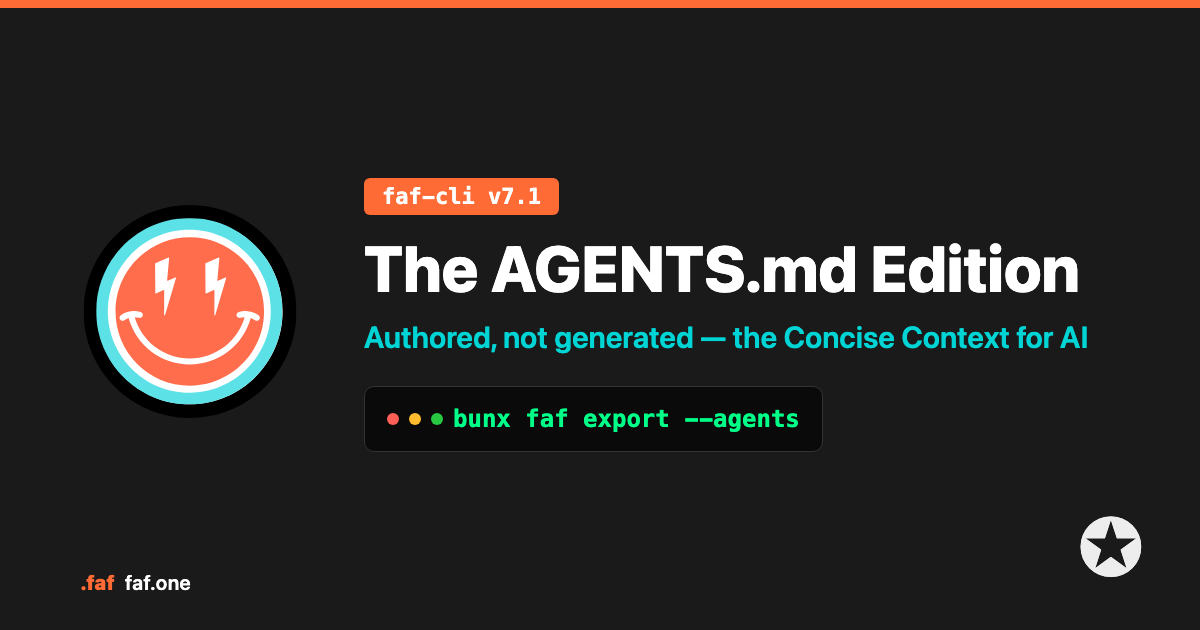
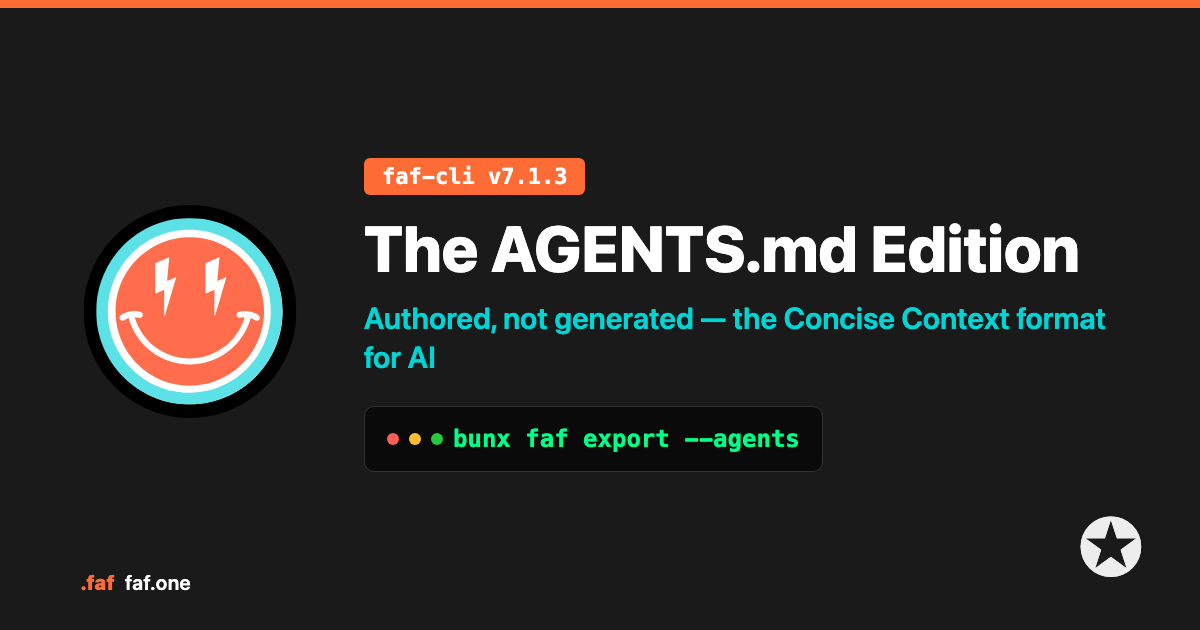
docs(blog): AGENTS.md post — v7.1.3, "Concise Context format", C-order
Version # → today's 7.1.3 (post + title + share + index + hero).
Phrase → "the Concise Context format for AI" (FAF is a format).
Triad → "concise, current, correct" (ends on the trust beat).
Hero regenerated to match.

Changed region(s): [[0.2775, 0.2413, 0.925, 0.6032], [0.3083, 0.6333, 0.6783, 0.7238]]

diff --git a/src/routes/blog/authored-not-generated/+page.svelte b/src/routes/blog/authored-not-generated/+page.svelte
@@ -9,7 +9,7 @@
 	}
 
 	// Rich X share — the crafted post, not a bare URL.
-	const shareText = `🏁 Just shipped: faf-cli v7.1 — The AGENTS.md Edition
+	const shareText = `🏁 Just shipped: faf-cli v7.1.3 — The AGENTS.md Edition
 
 faf export --agents authors a complete, best-in-class AGENTS.md for any repo — detected from your code, non-destructive, never stale.
 
@@ -21,10 +21,10 @@ bunx faf export --agents`;
 </script>
 
 <svelte:head>
-	<title>Authored, Not Generated — faf-cli v7.1, The AGENTS.md Edition | FAF</title>
-	<meta name="description" content="faf export --agents authors a complete, best-in-class AGENTS.md for any repo — detected from your code, non-destructive, never stale. Authored, not generated: the Concise Context for AI." />
+	<title>Authored, Not Generated — faf-cli v7.1.3, The AGENTS.md Edition | FAF</title>
+	<meta name="description" content="faf export --agents authors a complete, best-in-class AGENTS.md for any repo — detected from your code, non-destructive, never stale. Authored, not generated: the Concise Context format for AI." />
 	<meta property="og:title" content="Authored, Not Generated — The AGENTS.md Edition" />
-	<meta property="og:description" content="faf export --agents authors a complete AGENTS.md from your real code. Authored, not generated — the Concise Context for AI." />
+	<meta property="og:description" content="faf export --agents authors a complete AGENTS.md from your real code. Authored, not generated — the Concise Context format for AI." />
 	<meta property="og:type" content="article" />
 	<meta property="og:image" content="https://faf.one/blog/authored-not-generated-hero.png" />
 	<meta name="twitter:card" content="summary_large_image" />
@@ -39,8 +39,8 @@ bunx faf export --agents`;
 
 		<p class="kicker">CONTEXT, versioned.</p>
 		<h1>Authored, Not Generated</h1>
-		<p class="version-tag">faf-cli v7.1 — The AGENTS.md Edition</p>
-		<p class="subtitle">faf export --agents authors the definitive AGENTS.md — the Concise Context for AI.</p>
+		<p class="version-tag">faf-cli v7.1.3 — The AGENTS.md Edition</p>
+		<p class="subtitle">faf export --agents authors the definitive AGENTS.md — the Concise Context format for AI.</p>
 		<div class="meta">
 			<time datetime="2026-07-10">July 10, 2026</time>
 			<span class="separator">•</span>
@@ -49,7 +49,7 @@ bunx faf export --agents`;
 	</header>
 
 	<div class="hero-image">
-		<img src="/blog/authored-not-generated-hero.png" alt="faf-cli v7.1 — The AGENTS.md Edition: authored, not generated" />
+		<img src="/blog/authored-not-generated-hero.png" alt="faf-cli v7.1.3 — The AGENTS.md Edition: authored, not generated" />
 	</div>
 
 	<article class="post-content">
@@ -67,9 +67,9 @@ bunx faf export --agents`;
 		</section>
 
 		<section>
-			<h2>The Concise Context for AI</h2>
+			<h2>The Concise Context format for AI</h2>
 			<p>The model for a good <code>AGENTS.md</code> isn't a blog post. It's the <strong>Concise Oxford</strong> — definitions, not prose.</p>
-			<p>That's what faf authors: the <strong>Concise Context for AI</strong>. Orientation, setup, tests, conventions, guardrails — dense with fact, stripped of filler. An agent doesn't need your project narrated; it needs to know what's true, fast. Persistent project context for AI — concise, correct, current.</p>
+			<p>That's what faf authors: the <strong>Concise Context format for AI</strong>. Orientation, setup, tests, conventions, guardrails — dense with fact, stripped of filler. An agent doesn't need your project narrated; it needs to know what's true, fast. Persistent project context for AI — concise, current, correct.</p>
 		</section>
 
 		<section>
@@ -104,7 +104,7 @@ bunx faf export --agents`;
 		<section>
 			<h2>The Numbers</h2>
 			<ul>
-				<li><strong>v7.1 — The AGENTS.md Edition</strong> (current: v7.1.3)</li>
+				<li><strong>v7.1.3 — The AGENTS.md Edition</strong></li>
 				<li><strong>1,146 / 1,146</strong> — tests passing</li>
 				<li><strong>100%</strong> — Trophy score</li>
 				<li><strong>115,000+</strong> — downloads across the FAF ecosystem</li>

diff --git a/src/routes/blog/+page.svelte b/src/routes/blog/+page.svelte
@@ -7,10 +7,10 @@
 		{
 			slug: 'blog/authored-not-generated',
 			title: 'Authored, Not Generated',
-			version: 'faf-cli v7.1',
+			version: 'faf-cli v7.1.3',
 			date: 'July 10, 2026',
 			timestamp: '2026-07-10',
-			excerpt: "faf export --agents authors a complete, best-in-class AGENTS.md for any repo — detected from your code, non-destructive, never stale. Authored, not generated: the Concise Context for AI.",
+			excerpt: "faf export --agents authors a complete, best-in-class AGENTS.md for any repo — detected from your code, non-destructive, never stale. Authored, not generated: the Concise Context format for AI.",
 			emoji: '☑',
 			category: 'Release'
 		},
